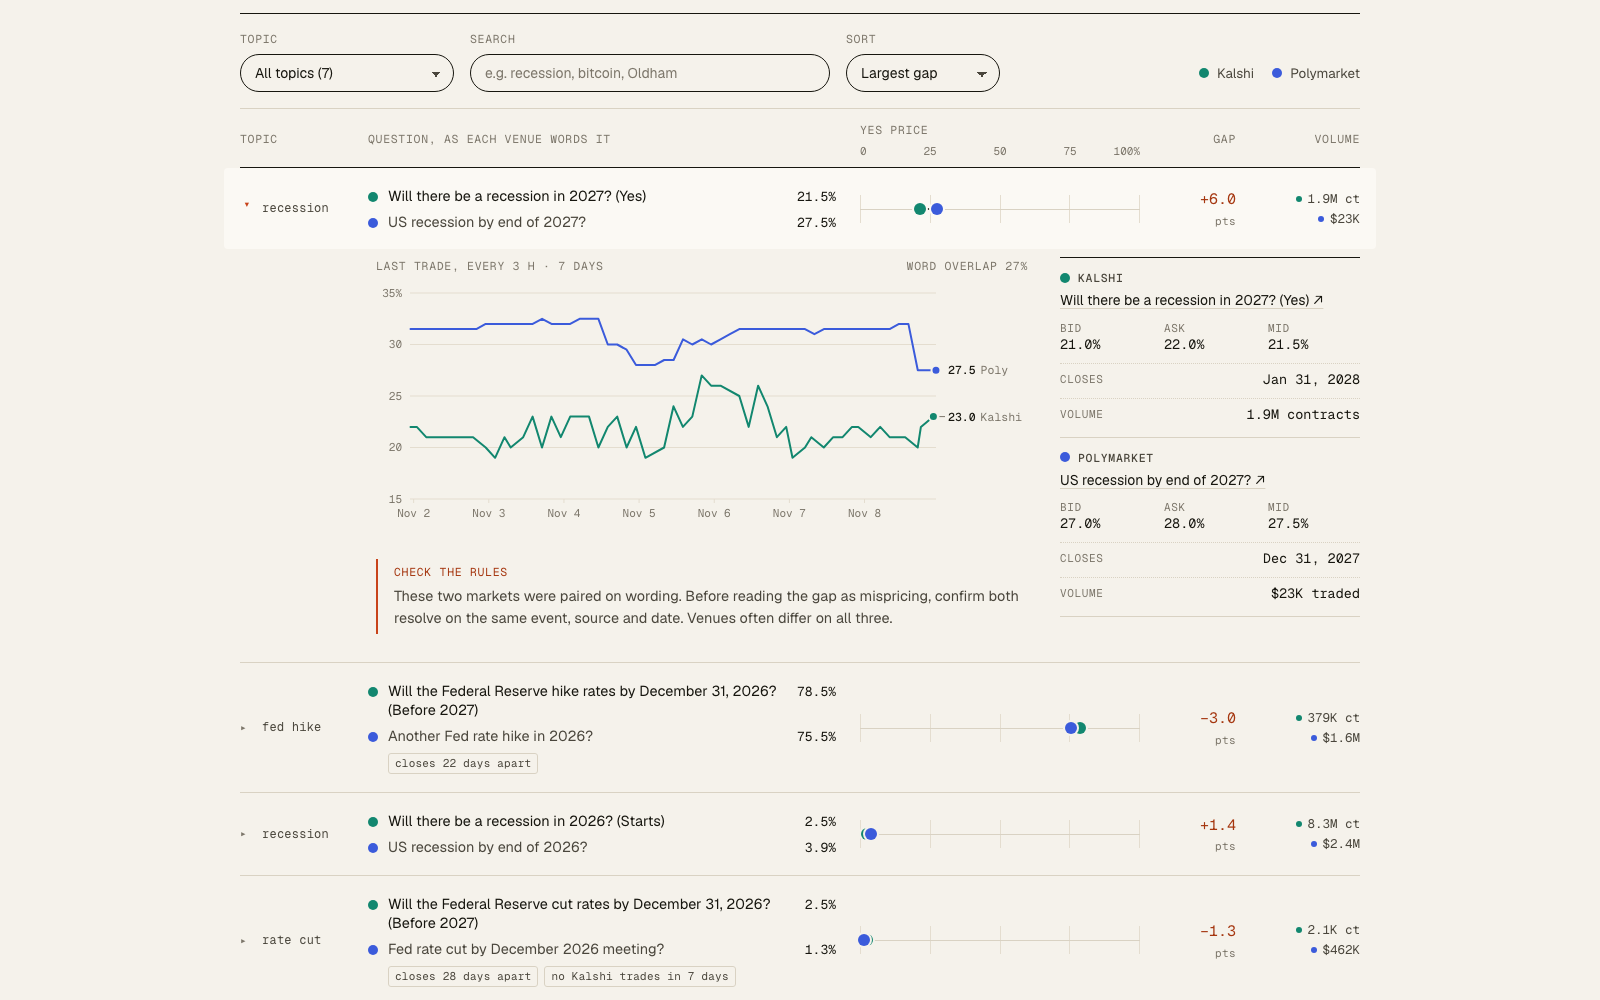
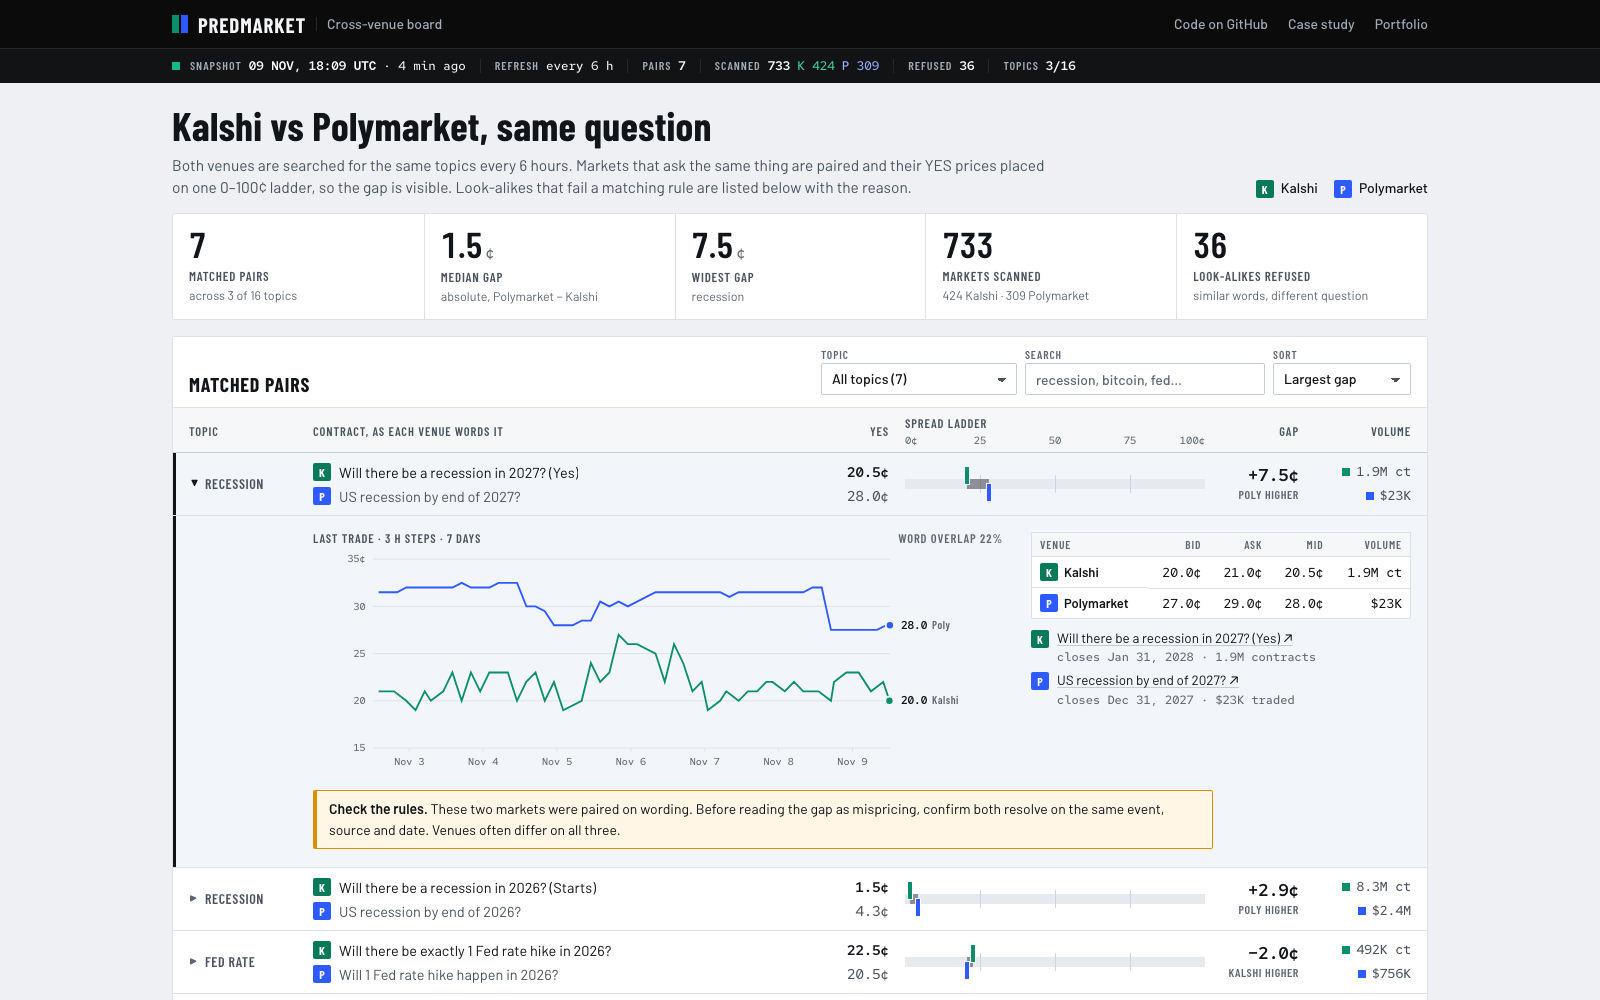
predmarket: new quote-board screenshot and caption

diff --git a/work/predmarket-mcp.html b/work/predmarket-mcp.html
@@ -151,8 +151,8 @@ gap <span class="hi"> 0.000</span>  Kalshi  hike by 25bps in December?
       </section>
 
       <figure class="figure-wide">
-        <a class="dg-frame" href="https://bprakashputta.github.io/predmarket-mcp/" style="display:block;padding:0;overflow:hidden;cursor:pointer"><img src="../assets/predmarket/board.png" alt="The predmarket-mcp cross-venue board: matched markets with Kalshi and Polymarket prices on one axis" style="max-height:none"></a>
-        <figcaption><span class="label">Fig. 2</span>The cross-venue board, rebuilt from live public data every six hours. Click to open it.</figcaption>
+        <a class="dg-frame" href="https://bprakashputta.github.io/predmarket-mcp/" style="display:block;padding:0;overflow:hidden;cursor:pointer"><img src="../assets/predmarket/board.png" alt="The predmarket-mcp cross-venue quote board: a black status strip with snapshot time and market counts, summary figures, and matched Kalshi and Polymarket contracts with both YES prices on a shared 0–100¢ spread ladder, one pair expanded to its seven-day price chart and bid/ask table" style="max-height:none"></a>
+        <figcaption><span class="label">Fig. 2</span>The cross-venue quote board, rebuilt from live public data every six hours: each pair’s two prices sit on one 0–100¢ ladder so the gap is visible. Click to open it.</figcaption>
       </figure>
 
       <section class="body">
